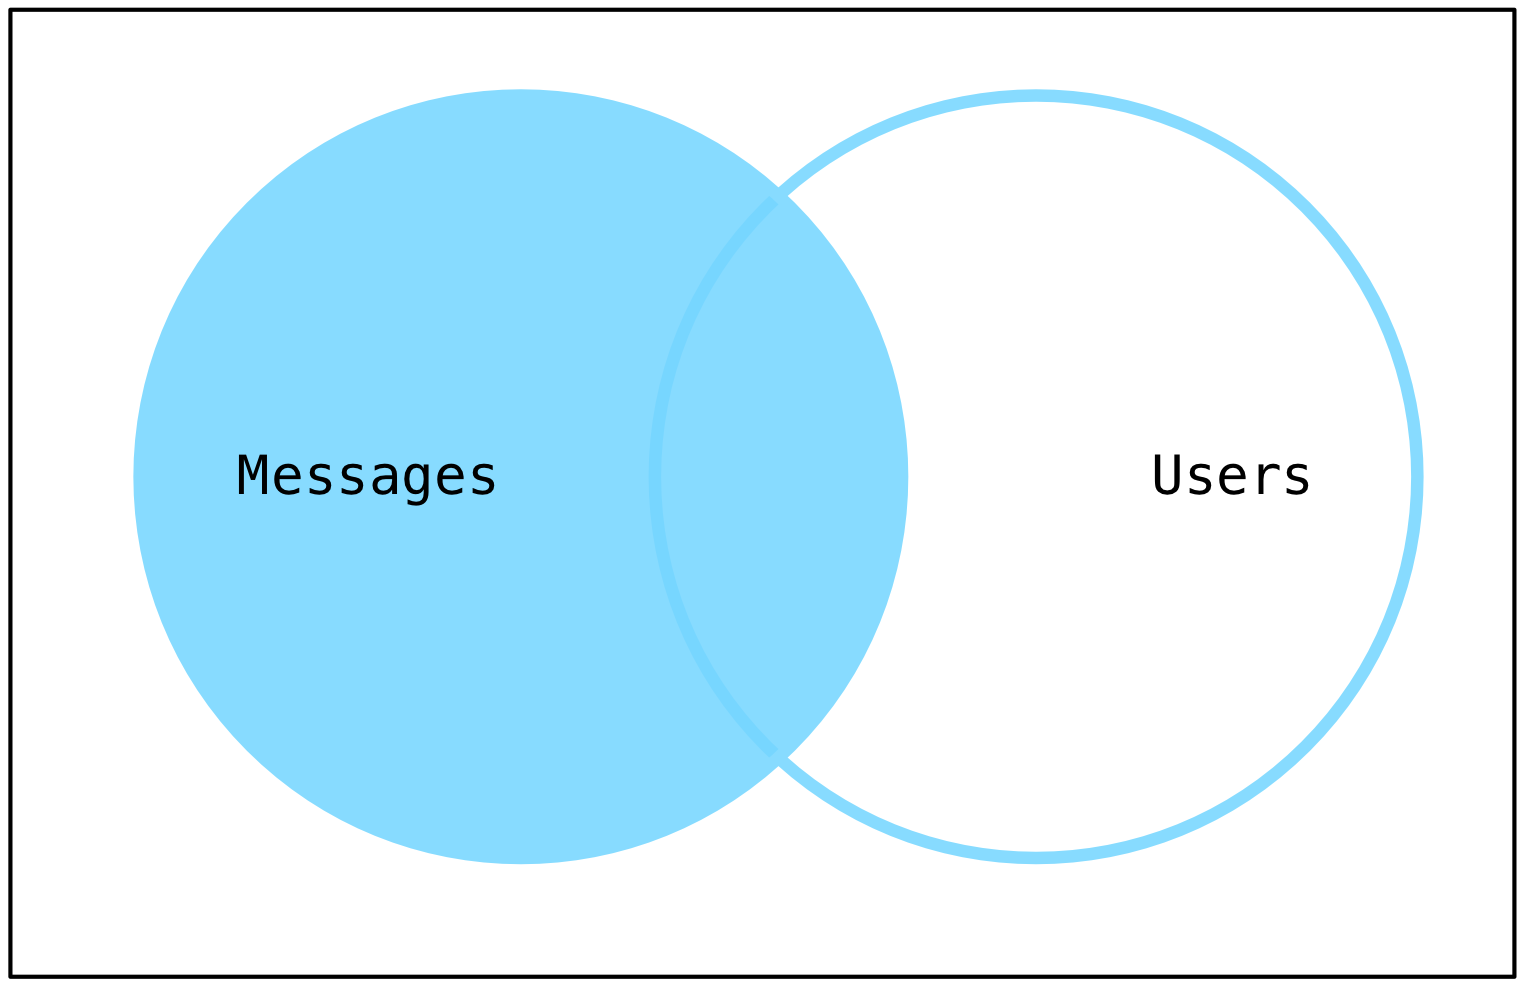
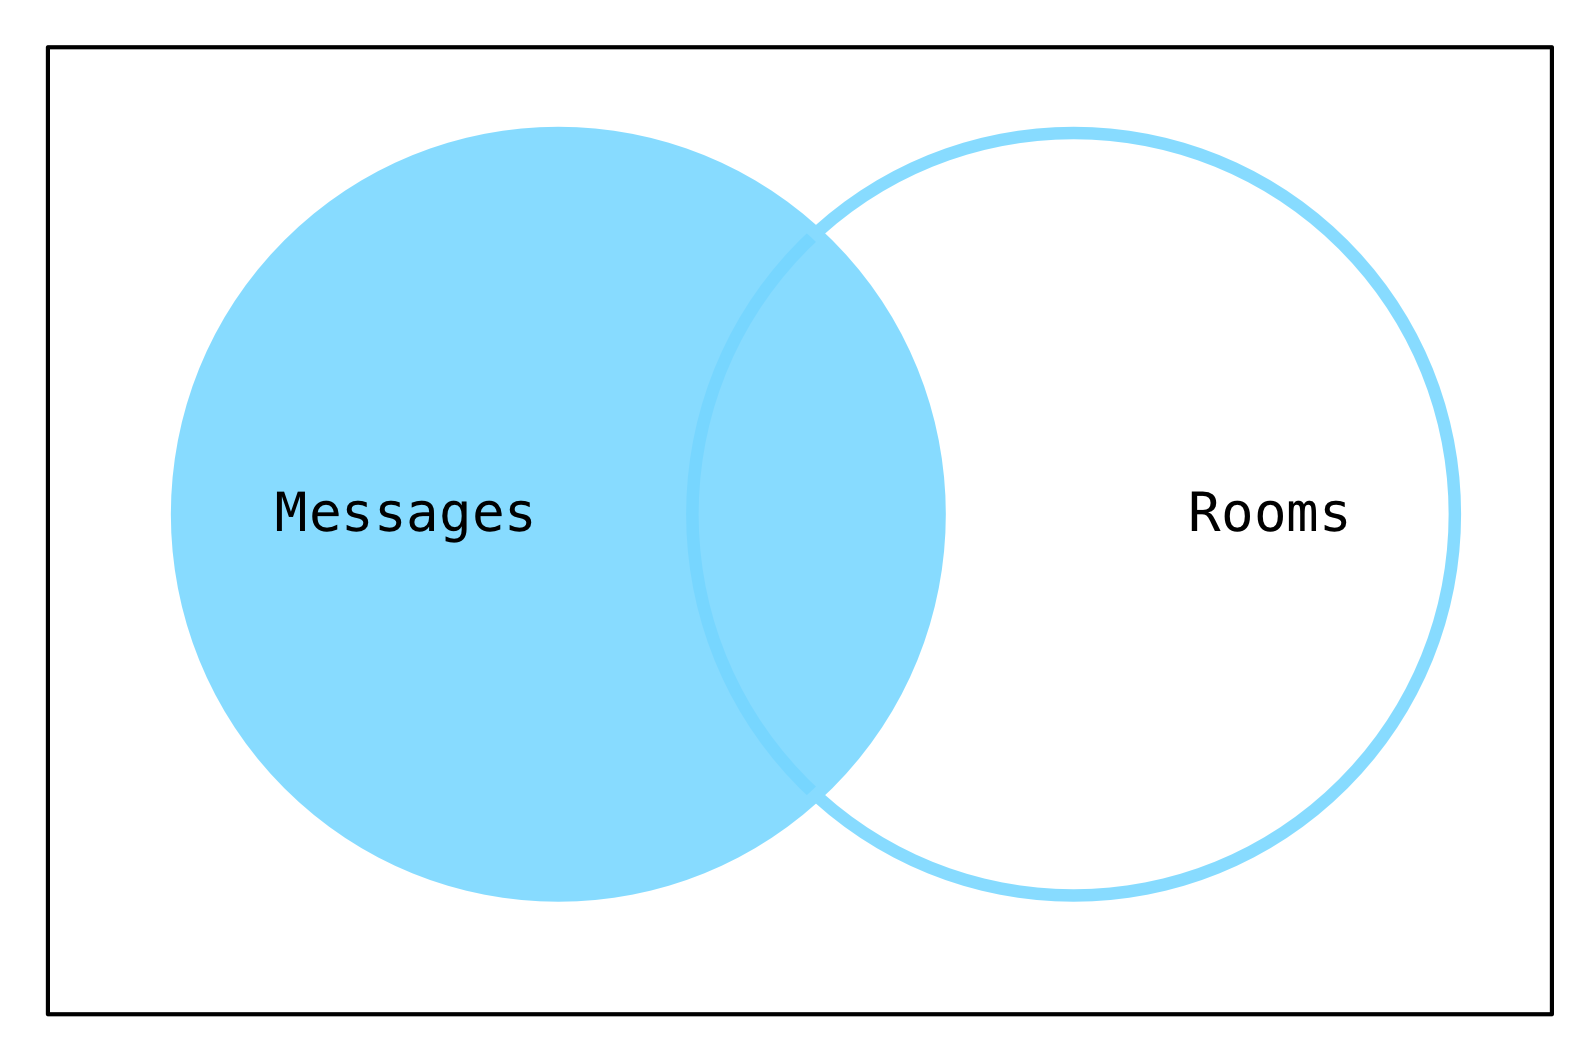
Updated diagrams to match text

diff --git a/src/pages/6-joins.md b/src/pages/6-joins.md
@@ -229,7 +229,6 @@ The database schema for this chapter.
 Find this code in the _chat-schema.scala_ file of the example project on GitHub.
 A _message_ can have a _sender_, which is a join to the _user_ table.
 Also, a _message_ can be in a _room_, which is a join to the _room_ table.
-Finally, a _user_ can be in a _room_, which is a join between _user_ and _room_ via the _occupant_ table.
 ](src/img/Schema.png)
 
 For now we will add one more table.
